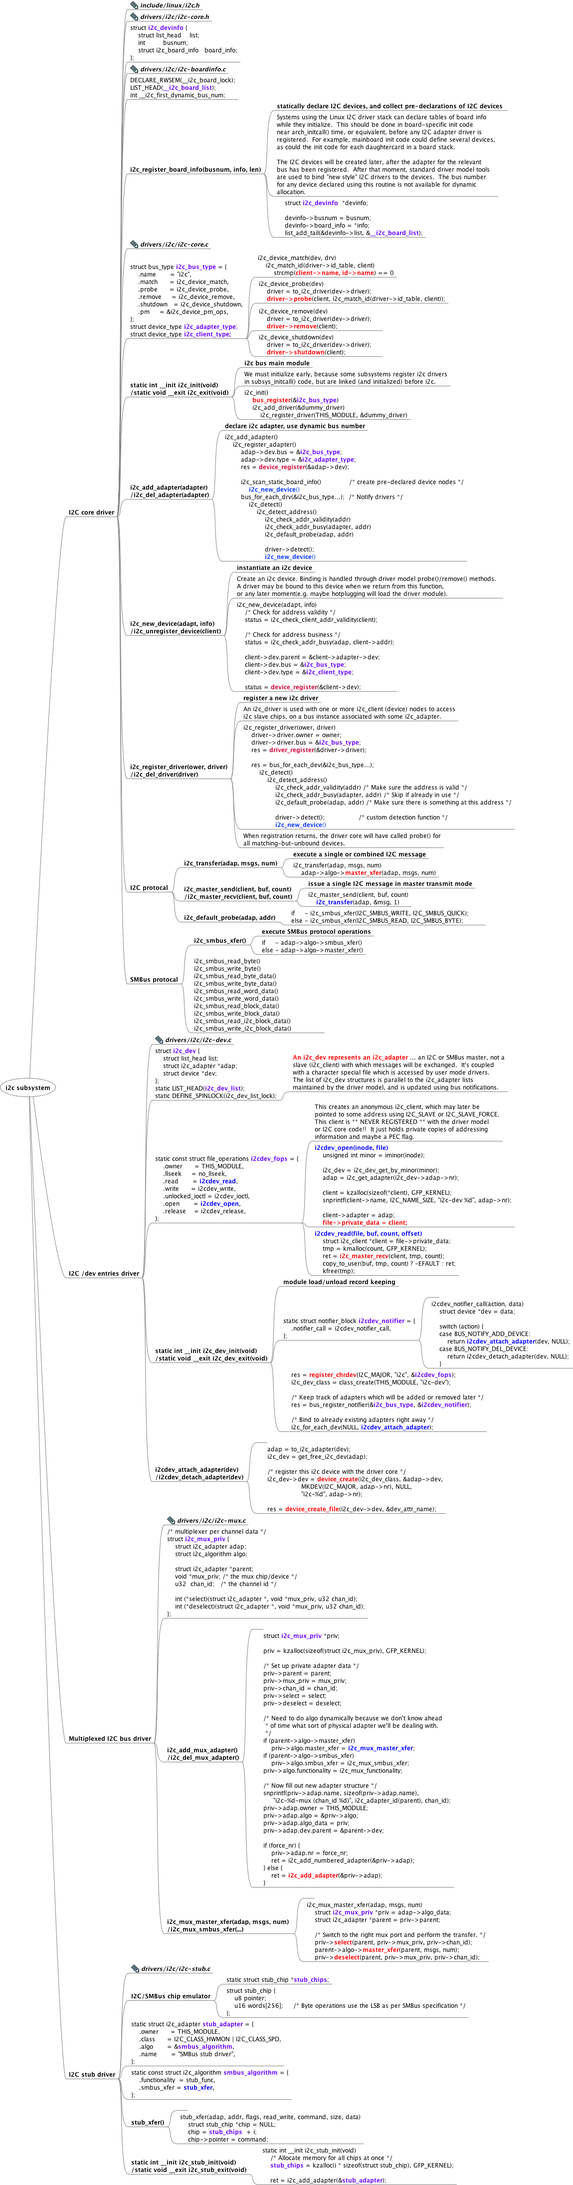
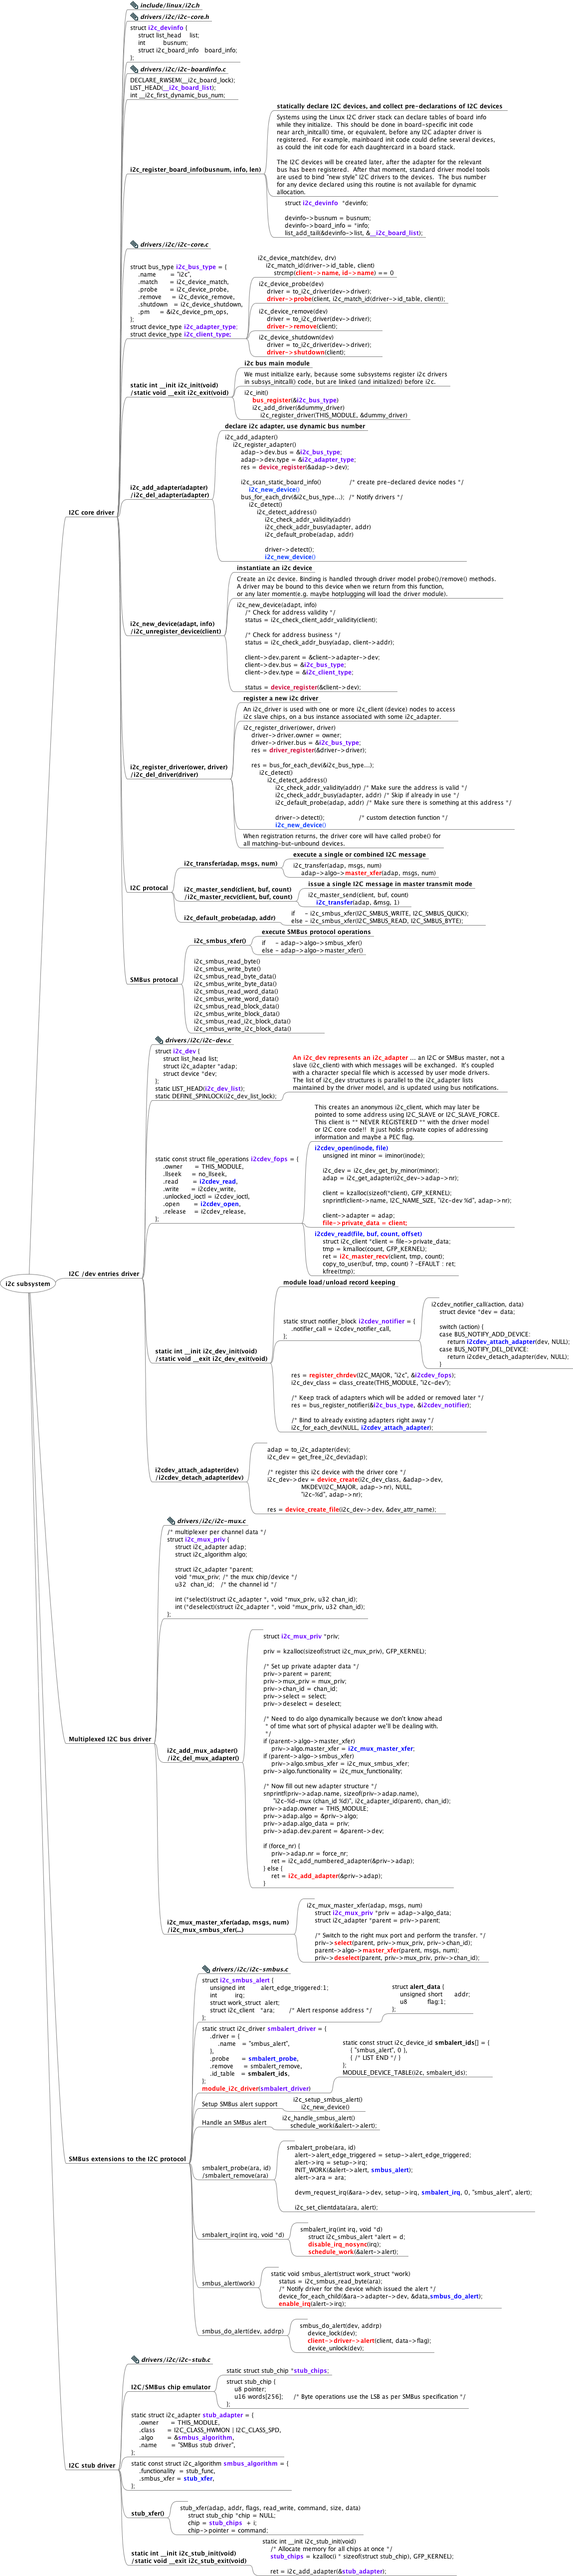
update i2c driver - SMBus extention

diff --git a/Linux/device_driver_i2c.mm b/Linux/device_driver_i2c.mm
@@ -2,7 +2,7 @@
 <!-- To view this file, download free mind mapping software FreeMind from http://freemind.sourceforge.net -->
 <node CREATED="1386561895481" ID="ID_829416847" MODIFIED="1386837813117" TEXT="i2c subsystem">
 <font BOLD="true" NAME="SansSerif" SIZE="12"/>
-<node CREATED="1386561935229" ID="ID_1458744004" MODIFIED="1386903307172" POSITION="right" TEXT="I2C core driver">
+<node CREATED="1386561935229" ID="ID_1458744004" MODIFIED="1386927831110" POSITION="right" TEXT="I2C core driver">
 <font BOLD="true" NAME="SansSerif" SIZE="12"/>
 <node CREATED="1386837756259" ID="ID_1367330475" MODIFIED="1386837765965" TEXT="include/linux/i2c.h">
 <font BOLD="true" ITALIC="true" NAME="SansSerif" SIZE="12"/>
@@ -701,7 +701,7 @@
 </node>
 </node>
 </node>
-<node CREATED="1386829299952" ID="ID_1463825158" MODIFIED="1386903304452" POSITION="right" TEXT="I2C /dev entries driver">
+<node CREATED="1386829299952" ID="ID_1463825158" MODIFIED="1386927828891" POSITION="right" TEXT="I2C /dev entries driver">
 <font BOLD="true" NAME="SansSerif" SIZE="12"/>
 <node CREATED="1386829337309" ID="ID_1976511202" MODIFIED="1386839183142">
 <richcontent TYPE="NODE"><html>
@@ -1062,7 +1062,7 @@
 </node>
 </node>
 </node>
-<node CREATED="1386850370989" ID="ID_60097188" MODIFIED="1386903302448" POSITION="right" TEXT="Multiplexed I2C bus driver">
+<node CREATED="1386850370989" ID="ID_60097188" MODIFIED="1386927827085" POSITION="right" TEXT="Multiplexed I2C bus driver">
 <font BOLD="true" NAME="SansSerif" SIZE="12"/>
 <node CREATED="1386850674077" ID="ID_42903251" MODIFIED="1386850709650" TEXT="drivers/i2c/i2c-mux.c">
 <font BOLD="true" ITALIC="true" NAME="SansSerif" SIZE="12"/>
@@ -1290,7 +1290,293 @@
 </node>
 </node>
 </node>
-<node CREATED="1386901114779" ID="ID_1662636845" MODIFIED="1386901146773" POSITION="right" TEXT="I2C stub driver">
+<node CREATED="1386920727348" ID="ID_223580320" MODIFIED="1386926264773" POSITION="right" TEXT="SMBus extensions to the I2C protocol">
+<font BOLD="true" NAME="SansSerif" SIZE="12"/>
+<node CREATED="1386920745776" ID="ID_639602991" MODIFIED="1386920760586" TEXT="drivers/i2c/i2c-smbus.c">
+<font BOLD="true" ITALIC="true" NAME="SansSerif" SIZE="12"/>
+<icon BUILTIN="attach"/>
+</node>
+<node CREATED="1386920763216" ID="ID_695622774" MODIFIED="1386921424734">
+<richcontent TYPE="NODE"><html>
+  <head>
+    
+  </head>
+  <body>
+    <p>
+      struct <b><font color="#6600ff">i2c_smbus_alert</font></b>&#160;{
+    </p>
+    <p>
+      &#160;&#160;&#160;&#160;unsigned int&#160;&#160;&#160;&#160;&#160;&#160;&#160;&#160;alert_edge_triggered:1;&#160;&#160;&#160;&#160;&#160;&#160;&#160;
+    </p>
+    <p>
+      &#160;&#160;&#160;&#160;int&#160;&#160;&#160;&#160;&#160;&#160;&#160;&#160;&#160;irq;
+    </p>
+    <p>
+      &#160;&#160;&#160;&#160;struct work_struct&#160;&#160;alert;
+    </p>
+    <p>
+      &#160;&#160;&#160;&#160;struct i2c_client&#160;&#160;&#160;*ara;&#160;&#160;&#160;&#160;&#160;&#160;&#160;/* Alert response address */&#160;&#160;
+    </p>
+    <p>
+      };
+    </p>
+  </body>
+</html>
+</richcontent>
+<node CREATED="1386920799509" ID="ID_97272624" MODIFIED="1386923633436">
+<richcontent TYPE="NODE"><html>
+  <head>
+    
+  </head>
+  <body>
+    <p>
+      struct <b><font color="#000000">alert_data</font></b>&#160;{
+    </p>
+    <p>
+      &#160;&#160;&#160;&#160;unsigned short&#160;&#160;&#160;&#160;&#160;&#160;addr;
+    </p>
+    <p>
+      &#160;&#160;&#160;&#160;u8&#160;&#160;&#160;&#160;&#160;&#160;&#160;&#160;&#160;&#160;flag:1;
+    </p>
+    <p>
+      };
+    </p>
+  </body>
+</html>
+</richcontent>
+</node>
+</node>
+<node CREATED="1386920895763" ID="ID_435325719" MODIFIED="1386925437274">
+<richcontent TYPE="NODE"><html>
+  <head>
+    
+  </head>
+  <body>
+    <p>
+      static struct i2c_driver <b><font color="#6600ff">smbalert_driver</font></b>&#160;= {
+    </p>
+    <p>
+      &#160;&#160;&#160;&#160;.driver = {
+    </p>
+    <p>
+      &#160;&#160;&#160;&#160;&#160;&#160;&#160;&#160;.name&#160;&#160;&#160;= &quot;smbus_alert&quot;,&#160;&#160;&#160;&#160;&#160;&#160;
+    </p>
+    <p>
+      &#160;&#160;&#160;&#160;},
+    </p>
+    <p>
+      &#160;&#160;&#160;&#160;.probe&#160;&#160;&#160;&#160;&#160;&#160;= <b><font color="#0000ff">smbalert_probe</font></b>,&#160;
+    </p>
+    <p>
+      &#160;&#160;&#160;&#160;.remove&#160;&#160;&#160;&#160;&#160;= smbalert_remove,
+    </p>
+    <p>
+      &#160;&#160;&#160;&#160;.id_table&#160;&#160;&#160;= <b>smbalert_ids</b>,&#160;&#160;&#160;
+    </p>
+    <p>
+      };
+    </p>
+    <p>
+      <b><font color="#ff0000">module_i2c_driver</font></b>(<b><font color="#6600ff">smbalert_driver</font></b>)
+    </p>
+  </body>
+</html>
+</richcontent>
+<node CREATED="1386920887171" ID="ID_1301056453" MODIFIED="1386921294813">
+<richcontent TYPE="NODE"><html>
+  <head>
+    
+  </head>
+  <body>
+    <p>
+      static const struct i2c_device_id <b><font color="#000000">smbalert_ids</font></b>[] = {
+    </p>
+    <p>
+      &#160;&#160;&#160;&#160;{ &quot;smbus_alert&quot;, 0 },
+    </p>
+    <p>
+      &#160;&#160;&#160;&#160;{ /* LIST END */ }
+    </p>
+    <p>
+      };
+    </p>
+    <p>
+      MODULE_DEVICE_TABLE(i2c, smbalert_ids);
+    </p>
+  </body>
+</html>
+</richcontent>
+<font NAME="SansSerif" SIZE="12"/>
+</node>
+</node>
+<node CREATED="1386925451770" ID="ID_1790636665" MODIFIED="1386925465914" TEXT="Setup SMBus alert support">
+<node CREATED="1386925274699" ID="ID_1676351521" MODIFIED="1386925383375">
+<richcontent TYPE="NODE"><html>
+  <head>
+    
+  </head>
+  <body>
+    <p>
+      i2c_setup_smbus_alert()
+    </p>
+    <p>
+      &#160;&#160;&#160;&#160;i2c_new_device()
+    </p>
+  </body>
+</html></richcontent>
+</node>
+</node>
+<node CREATED="1386925450090" ID="ID_617250352" MODIFIED="1386925499313" TEXT="Handle an SMBus alert">
+<node CREATED="1386925373776" ID="ID_1744431559" MODIFIED="1386925390198">
+<richcontent TYPE="NODE"><html>
+  <head>
+    
+  </head>
+  <body>
+    <p>
+      i2c_handle_smbus_alert()
+    </p>
+    <p>
+      &#160;&#160;&#160;&#160;schedule_work(&amp;alert-&gt;alert);
+    </p>
+  </body>
+</html></richcontent>
+</node>
+</node>
+<node CREATED="1386921376443" ID="ID_168385861" MODIFIED="1386922083662">
+<richcontent TYPE="NODE"><html>
+  <head>
+    
+  </head>
+  <body>
+    <p>
+      smbalert_probe(ara, id)
+    </p>
+    <p>
+      /smbalert_remove(ara)
+    </p>
+  </body>
+</html>
+</richcontent>
+<node CREATED="1386922104972" ID="ID_1355266874" MODIFIED="1386922104972" TEXT=""/>
+<node CREATED="1386921561791" ID="ID_248409127" MODIFIED="1386922045434">
+<richcontent TYPE="NODE"><html>
+  <head>
+    
+  </head>
+  <body>
+    <p>
+      smbalert_probe(ara, id)
+    </p>
+    <p>
+      &#160;&#160;&#160;&#160;alert-&gt;alert_edge_triggered = setup-&gt;alert_edge_triggered;
+    </p>
+    <p>
+      &#160;&#160;&#160;&#160;alert-&gt;irq = setup-&gt;irq;
+    </p>
+    <p>
+      &#160;&#160;&#160;&#160;INIT_WORK(&amp;alert-&gt;alert, <b><font color="#0000ff">smbus_alert</font></b>);
+    </p>
+    <p>
+      &#160;&#160;&#160;&#160;alert-&gt;ara = ara;
+    </p>
+    <p>
+      
+    </p>
+    <p>
+      &#160;&#160;&#160;&#160;devm_request_irq(&amp;ara-&gt;dev, setup-&gt;irq, <b><font color="#0000ff">smbalert_irq</font></b>, 0, &quot;smbus_alert&quot;, alert);
+    </p>
+    <p>
+      
+    </p>
+    <p>
+      &#160;&#160;&#160;&#160;i2c_set_clientdata(ara, alert);
+    </p>
+  </body>
+</html>
+</richcontent>
+</node>
+</node>
+<node CREATED="1386922198285" ID="ID_1451765340" MODIFIED="1386922215125" TEXT="smbalert_irq(int irq, void *d)">
+<node CREATED="1386922634059" ID="ID_1038505360" MODIFIED="1386922634059" TEXT=""/>
+<node CREATED="1386922494856" ID="ID_1820243204" MODIFIED="1386923313466">
+<richcontent TYPE="NODE"><html>
+  <head>
+    
+  </head>
+  <body>
+    <p>
+      smbalert_irq(int irq, void *d)
+    </p>
+    <p>
+      &#160;&#160;&#160;&#160;struct i2c_smbus_alert *alert = d;
+    </p>
+    <p>
+      &#160;&#160;&#160;&#160;<b><font color="#ff0000">disable_irq_nosync</font></b>(irq);
+    </p>
+    <p>
+      &#160;&#160;&#160; <b><font color="#ff0000">schedule_work</font></b>(&amp;alert-&gt;alert);
+    </p>
+  </body>
+</html>
+</richcontent>
+</node>
+</node>
+<node CREATED="1386922788809" ID="ID_1981824037" MODIFIED="1386922937847" TEXT="smbus_alert(work)">
+<node CREATED="1386923358831" ID="ID_1072436545" MODIFIED="1386923358831" TEXT=""/>
+<node CREATED="1386922810572" ID="ID_1418180784" MODIFIED="1386923322642">
+<richcontent TYPE="NODE"><html>
+  <head>
+    
+  </head>
+  <body>
+    <p>
+      static void smbus_alert(struct work_struct *work)
+    </p>
+    <p>
+      &#160;&#160;&#160;&#160;status = i2c_smbus_read_byte(ara);
+    </p>
+    <p>
+      &#160;&#160;&#160;&#160;/* Notify driver for the device which issued the alert */
+    </p>
+    <p>
+      &#160;&#160;&#160;&#160;device_for_each_child(&amp;ara-&gt;adapter-&gt;dev, &amp;data,<b><font color="#0000ff">smbus_do_alert</font></b>);&#160;&#160;&#160;&#160;&#160;&#160;&#160;&#160;
+    </p>
+    <p>
+      &#160;&#160;&#160;&#160;<b><font color="#ff0000">enable_irq</font></b>(alert-&gt;irq);
+    </p>
+  </body>
+</html>
+</richcontent>
+</node>
+</node>
+<node CREATED="1386923375180" ID="ID_1024924005" MODIFIED="1386923522880" TEXT="smbus_do_alert(dev, addrp)">
+<node CREATED="1386923558547" ID="ID_874899733" MODIFIED="1386923558547" TEXT=""/>
+<node CREATED="1386923511990" ID="ID_591570992" MODIFIED="1386923591013">
+<richcontent TYPE="NODE"><html>
+  <head>
+    
+  </head>
+  <body>
+    <p>
+      smbus_do_alert(dev, addrp)
+    </p>
+    <p>
+      &#160;&#160;&#160;&#160;device_lock(dev);&#160;&#160;&#160;&#160;&#160;&#160;&#160;&#160;&#160;
+    </p>
+    <p>
+      &#160;&#160;&#160;&#160;<b><font color="#ff0000">client-&gt;driver-&gt;alert</font></b>(client, data-&gt;flag);
+    </p>
+    <p>
+      &#160;&#160;&#160;&#160;device_unlock(dev);
+    </p>
+  </body>
+</html>
+</richcontent>
+</node>
+</node>
+</node>
+<node CREATED="1386901114779" ID="ID_1662636845" MODIFIED="1386927859137" POSITION="right" TEXT="I2C stub driver">
 <font BOLD="true" NAME="SansSerif" SIZE="12"/>
 <node CREATED="1386901148610" ID="ID_686456387" MODIFIED="1386901161933" TEXT="drivers/i2c/i2c-stub.c">
 <font BOLD="true" ITALIC="true" NAME="SansSerif" SIZE="12"/>
